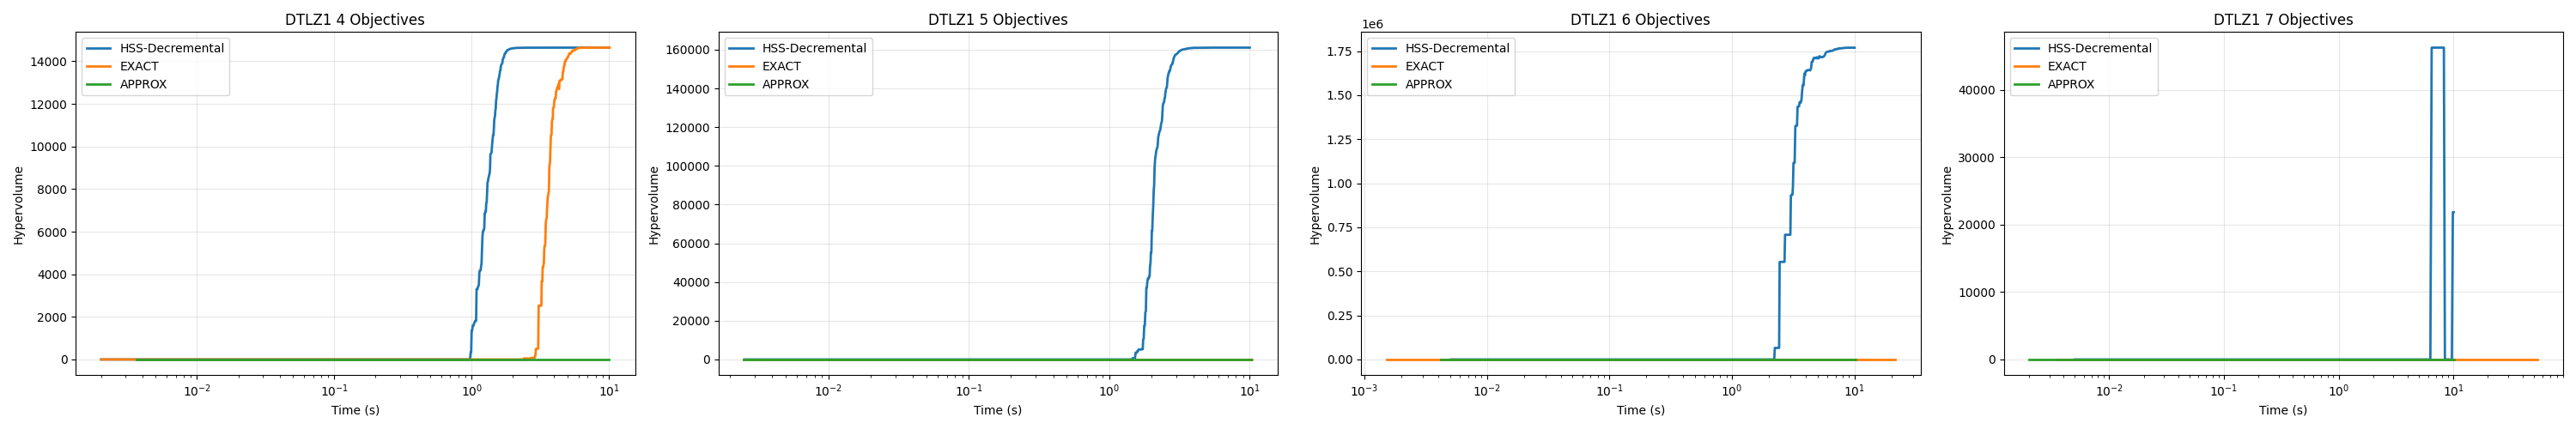
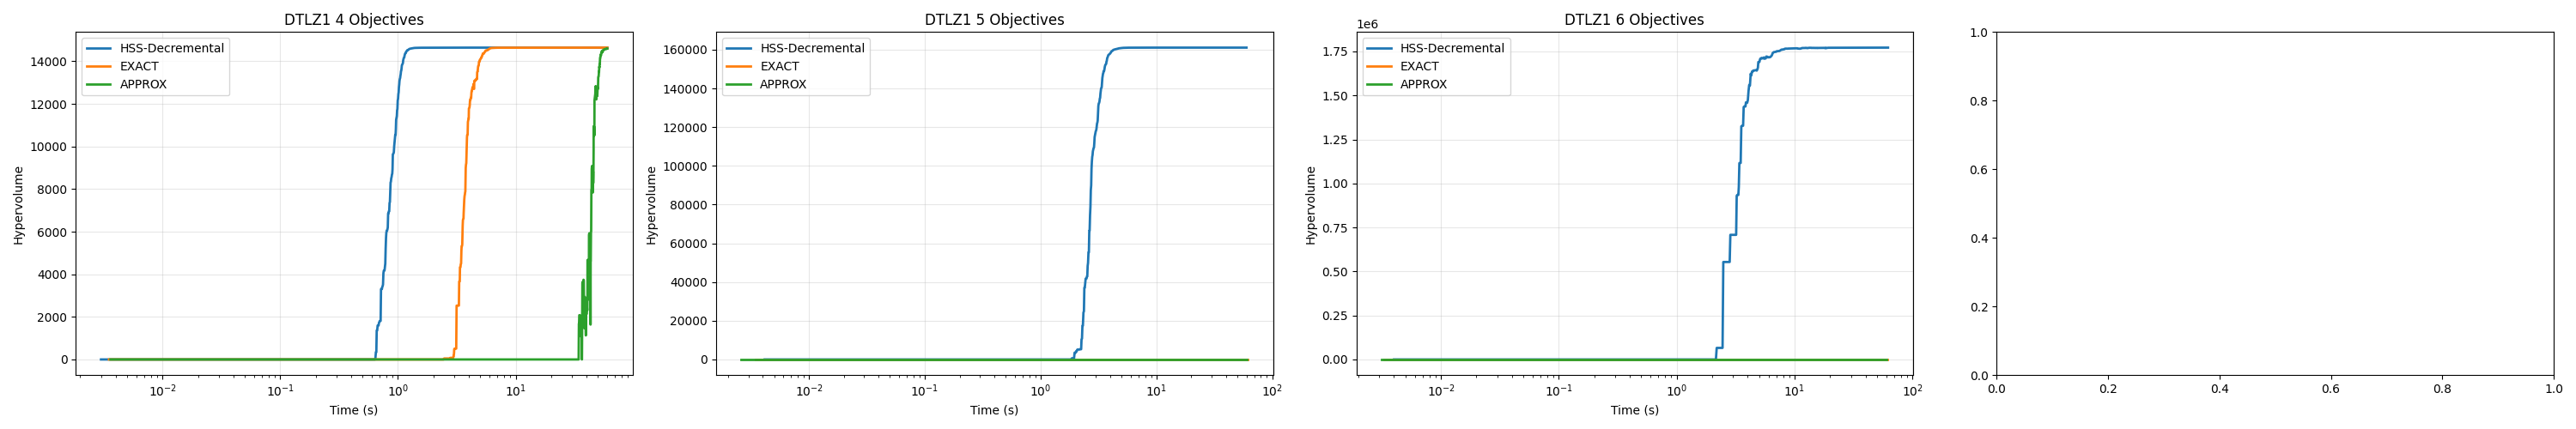
memory bugs

diff --git a/moda/python-wrap/pymoo_sms_tvshv.py b/moda/python-wrap/pymoo_sms_tvshv.py
@@ -6,23 +6,11 @@ from pymoo.problems import get_problem
 from pymoo.indicators.hv import HV
 from pymoo.core.callback import Callback
 from pymoo.termination import get_termination
-from pymoo.algorithms.moo.moda.sms_moda_hss_adaptive import SMSEMOA_HSS_ADA
-from pymoo.algorithms.moo.moda.sms_moda_hss_incremental import SMSEMOA_HSS_INC
+from tabulate import tabulate
 from pymoo.algorithms.moo.moda.sms_moda_hss_decremental import SMSEMOA_HSS_DEC
 from pymoo.algorithms.moo.sms_exact import SMSEMOA_EXACT
 from pymoo.algorithms.moo.sms_approx import SMSEMOA_APPROX
-from pymoo.core.termination import TerminateIfAny
-ptypes = ['dtlz2','dtlz5','dtlz7','wfg1','wfg2','wfg3']
-n_objs = [4,5,6,7]
-ref_point_value = 11
-# t1 = get_termination("n_gen", 300)
-t2 = get_termination("time", "00:01:00")
 
-#tylko adaptive
-#tylko kryterium czasowe (60s)
-#wywalić 3 kryteria
-#interfejs do metody adaptacyjnej w c++
-termination = TerminateIfAny(t2)
 class PerformanceCallback(Callback):
     def __init__(self, metric):
         super().__init__()
@@ -37,48 +25,89 @@ class PerformanceCallback(Callback):
         elapsed = time.time() - self.start_time
         self.data["runtime"].append(max(elapsed, 1e-6))
 
-for problem_type in ptypes:
+# Parameters
+N_RUNS = 3
+PTYPES = [ 'dtlz2', 'dtlz5', 'dtlz7', 'wfg1', 'wfg2', 'wfg3']
+N_OBJS = [4, 5, 6, 7]
+REF_POINT_VALUE = 11
+TIME_LIMIT = "00:01:00"
+CONVERGENCE_TIME = "00:02:00"
+CONVERGENCE_FACTOR = 0.98 
+
+results_table = []
+
+for problem_type in PTYPES:
+    # 1. Define algorithms. Ensure HSS-Decremental is available for the baseline.
     algos_to_test = [("HSS-Decremental", SMSEMOA_HSS_DEC), ("EXACT", SMSEMOA_EXACT), ("APPROX", SMSEMOA_APPROX)]
+    fig, axes = plt.subplots(1, len(N_OBJS), figsize=(20, 5))
 
-    fig, axes = plt.subplots(1, len(n_objs), figsize=(30, 5))
-
-    for i, n_obj in enumerate(n_objs):
+    for i, n_obj in enumerate(N_OBJS):
         problem = get_problem(problem_type, 14, n_obj=n_obj)
-        ref_point = np.array([ref_point_value] * n_obj)
+        ref_point = np.array([REF_POINT_VALUE] * n_obj)
         metric = HV(ref_point=ref_point)
+        
+        # --- BASELINE CALCULATION ---
+        # We run HSS-Decremental first to find the 100% HV baseline
+        print(f"\nEstablishing baseline with HSS-Decremental for {problem_type} ({n_obj} objs)...")
+        baseline_final_hvs = []
+        
+        
+        res_base = minimize(problem, SMSEMOA_HSS_DEC(), get_termination("time", CONVERGENCE_TIME), seed=42)
+        target_hv = metric.do(res_base.pop.get("F"))
+        print(f"Target HV set to: {target_hv:.4f} ({CONVERGENCE_FACTOR*100}% of baseline)")
 
+        # --- EVALUATION ---
         for name, algo_type in algos_to_test:
-            print(f"Running {name} ({problem_type},{n_obj} objs)...")
-            callback = PerformanceCallback(metric)
-            
-            res = minimize(problem, 
-                        algo_type(), 
-                        termination, 
-                        seed=420, 
-                        callback=callback,
-                        copy_algorithm=False)
-            
-            hvs = callback.data["hv"]
-            runtimes = callback.data["runtime"]
-            gens = np.arange(len(hvs))
+            all_hvs = []
+            all_times = []
+            conv_moments = []
 
-            # axes[i].plot(gens, hvs, label=name, lw=2)
-            axes[i].plot(runtimes, hvs, label=name, lw=2)
-            # axes[2][i].plot(gens, runtimes, label=name, lw=2)
+            print(f"Running {name}({n_obj} objectives)...")
 
-        # Formatting
-        # axes[0][i].set_title(f"HV vs Gen ({n_obj} Objs)")
-        axes[i].set_title(f"{problem_type.upper()} {n_obj} Objectives")
+            for run in range(N_RUNS):
+                print(f'Iteration {run+1}/{N_RUNS}', end = '\r')
+                callback = PerformanceCallback(metric)
+                minimize(problem, algo_type(), get_termination("time", TIME_LIMIT), 
+                         seed=run * 15, callback=callback, copy_algorithm=False)
+                
+                hvs = np.array(callback.data["hv"])
+                runtimes = np.array(callback.data["runtime"])
+                
+                # Find the moment the algorithm crossed the baseline target
+                reached_target = np.where(hvs >= target_hv)[0]
+                
+                if len(reached_target) > 0:
+                    conv_moments.append(runtimes[reached_target[0]])
+                else:
+                    # If it never reached the target within the time limit
+                    conv_moments.append(float(TIME_LIMIT.split(':')[-1])) 
+
+                all_hvs.append(hvs)
+                all_times.append(runtimes)
+            print('\n')
+            # Table Storage
+            results_table.append([
+                problem_type.upper(), 
+                n_obj, 
+                name, 
+                f"{np.mean(conv_moments):.3f}s", 
+                f"{np.std(conv_moments):.3f}s"
+            ])
+
+            # Standard Plotting Logic
+            common_time_grid = np.linspace(0.1, 60, 100)
+            interp_hvs = [np.interp(common_time_grid, t, h) for t, h in zip(all_times, all_hvs)]
+            axes[i].plot(common_time_grid, np.mean(interp_hvs, axis=0), label=name)
+            # Visual indicator of the target line
+            axes[i].axhline(y=target_hv, color='r', linestyle='--', alpha=0.3)
+
+        axes[i].set_title(f"{problem_type.upper()} - {n_obj} Objs")
         axes[i].set_xscale('log')
-        axes[i].set_xlabel("Time (s)")
-        axes[i].set_ylabel("Hypervolume")
-        # axes[2][i].set_title(f"Time vs Gen ({n_obj} Objs)")
-        # axes[2][i].set_yscale('log')
-        
-        for row in range(1):
-            axes[i].legend()
-            axes[i].grid(True, alpha=0.3)
+        axes[i].legend()
+    plt.tight_layout()
+    plt.savefig(f'averaged_benchmark_{problem_type}.png')
+    plt.close()
 
-        plt.tight_layout()
-        plt.savefig(f'ctermination_benchmark_{problem_type}_multihss_1.png')
-        
+# Print Results Table
+headers = ["Problem", "Objs", "Algorithm", "Mean Time to Target", "Std Dev"]
+print("\n" + tabulate(results_table, headers=headers, tablefmt="grid"))

diff --git a/moda/HSS.cpp b/moda/HSS.cpp
@@ -30,21 +30,21 @@ namespace moda
 			DType largeHV = Backend::Hypervolume(&nadirPoint, &newIdealPoint, numberOfObjectives);
 			// std::cout << "Calculation start";
 			// std::ofstream debugFile("C://debugging/debug.txt", std::ios_base::out | std::ios_base::trunc);
-			for(auto p : tmpPoints) {
-				for (short j = 0; j < numberOfObjectives; j++) {
-					if(p->ObjectiveValues[j] < nadirPoint.ObjectiveValues[j])
-						p->ObjectiveValues[j] = nadirPoint.ObjectiveValues[j];
+			// for(auto p : tmpPoints) {
+			// 	for (short j = 0; j < numberOfObjectives; j++) {
+			// 		if(p->ObjectiveValues[j] < nadirPoint.ObjectiveValues[j])
+			// 			p->ObjectiveValues[j] = nadirPoint.ObjectiveValues[j];
 					// debugFile << p->ObjectiveValues[j] << ' ';
-				}
+				// }
 				// debugFile << std::endl;
-			}
+			// }
 			// debugFile << "---------------" << std::endl;
-			for (short j = 0; j < numberOfObjectives; j++)
-			{
-				if(newIdealPoint.ObjectiveValues[j] <= nadirPoint.ObjectiveValues[j])
-					newIdealPoint.ObjectiveValues[j] = nadirPoint.ObjectiveValues[j] + 1;
+			// for (short j = 0; j < numberOfObjectives; j++)
+			// {
+			// 	if(newIdealPoint.ObjectiveValues[j] <= nadirPoint.ObjectiveValues[j])
+			// 		newIdealPoint.ObjectiveValues[j] = nadirPoint.ObjectiveValues[j] + 1;
 				// debugFile << newIdealPoint.ObjectiveValues[j] << " ";
-			}
+			// }
 			// debugFile << std::endl;
 			// debugFile << "---------------" << std::endl;
 			// for (short j = 0; j < numberOfObjectives; j++)
@@ -79,6 +79,13 @@ namespace moda
 			auto context = (IQHVExecutionContext*)pool->getContext(memoryKey);
 			for (int i = 0; i < numberOfPoints; i++) {
 				(*context->points)[i] = new Point(*points[i]);
+				for(int j = 0; j<numberOfObjectives; j++)
+				{
+					if((*context->points)[i]->ObjectiveValues[j] > idealPoint[j])
+						(*context->points)[i]->ObjectiveValues[j] = idealPoint[j];
+					if((*context->points)[i]->ObjectiveValues[j] < nadirPoint[j])
+						(*context->points)[i]->ObjectiveValues[j] = nadirPoint[j];
+				}
 			}
 
 
@@ -87,10 +94,12 @@ namespace moda
 			context->maxIndexUsed = maxIndexMem;
 			// std::cout << " starting IQHV ";
 			DType result = IQHV(0, numberOfPoints - 1, memoryKey, idealPoint, nadirPoint, 0, numberOfObjectives, 0,  numberOfPoints, false);
-			//std::cout << "Releasing memory for IQHV with key " << memoryKey << std::endl;
+			// std::cout << "Releasing memory for IQHV with key " << memoryKey << std::endl;
 			// std::cout << " releasing context ";
+			
+
 			pool->releaseContext(memoryKey);
-			//std::cout << "Memory released for IQHV with key " << memoryKey << std::endl;
+			// std::cout << "Memory released for IQHV with key " << memoryKey << std::endl;
 			// release memory
 			//indexSetVec.clear();
 			//indexSetVec.shrink_to_fit();

diff --git a/moda/ExecutionContext.h b/moda/ExecutionContext.h
@@ -4,7 +4,7 @@
 #include "ProcessData.h"
 #include "SubproblemsPool.h"
 #include "SubProblem.h"
-#define UNDERLYING_TYPE 4
+#define UNDERLYING_TYPE 2
 namespace moda {
     namespace backend {
         class ExecutionContext
@@ -36,15 +36,11 @@ namespace moda {
             std::vector<int> objectivesOrder;
             virtual ~ExecutionContext() {
                 
-                    // Check if we own the data before cleaning up the contents
                     if (points != nullptr && !shallow) {
-                        // We need a way to clean up the Point* objects managed by the array.
-                        // Assuming you add a function like `deleteContainedObjects` to SemiDynamicArray:
-                        //points->deleteContainedPoints(initialSize); // <-- Cleans up Point objects AND NULLED THEM
+                        points->deleteContainedPoints(initialSize); 
                     }
                     delete points;
-                    // Always delete the SemiDynamicArray object itself, as the Context owns the container pointer.
-                    //delete points;
+
                 
             }
 
@@ -54,9 +50,9 @@ namespace moda {
         {
         public:
             ~IQHVExecutionContext() {
-                //delete idealPoint;
-                //delete nadirPoint;
-                //delete points;
+                delete idealPoint;
+                delete nadirPoint;
+                //delete points; //points are deleted in base destructor
                 objectivesOrder.clear();
             }
             explicit IQHVExecutionContext(int reserveSize, int initialSize, int numberOfObjectives, bool shallow = false);

diff --git a/moda/IQHV.cpp b/moda/IQHV.cpp
@@ -9,7 +9,7 @@
 #include "ObjectivesTransformer.h"
 // 0 = switched off
 // 1 = switched on
-#define PARALLEL 1
+#define PARALLEL 0
 
 /*************************************************************************
 
@@ -35,7 +35,7 @@
       In Proceedings of the 
       Companion Conference on Genetic and Evolutionary Computation (GECCO '23 Companion). 
       Association for Computing Machinery, 
-      New York, NY, USA, 371�374. https://doi.org/10.1145/3583133.3590650
+      New York, NY, USA, 371–374. https://doi.org/10.1145/3583133.3590650
 
  
 
@@ -45,8 +45,6 @@ namespace moda {
         DType dummy(DType test, Point& NadirPoint ) { return test+1.0; };
         DType IQHV(int start, int end, int contextId, Point IdealPoint, Point NadirPoint, int recursion, int numberOfObjectives, int outerIteratorValue,  int fullSize, bool topLevelExecution)
         {
-            // std::cout << std::endl <<start << "|" << end;
-
             ExecutionService* service = &(ExecutionService::getInstance());
             ExecutionPool* pool = &(service->getPool());
     
@@ -77,7 +75,10 @@ namespace moda {
             for (int i = 0; i < numberOfObjectives; i++)
             {
                 if (IdealPoint[i] < NadirPoint[i])
-                    int k = 0;
+                {
+					//std::cout << "Ideal point should be better than nadir point in all objectives." << std::endl;
+                    //throw new _exception();
+                }
             }
 
 
@@ -199,8 +200,9 @@ namespace moda {
                         totalVolume += IQHV(partStart, partEnd, contextId, partIdealPoint, partNadirPoint, recursion + 1, numberOfObjectives, jj, fullSize, false);
                     }
                     else {
+						std::cout << "Spawning thread for objective " << j << " with " << (partEnd - partStart + 1) << " points.\n";
                         int points_to_reserve = 4 * (partEnd - partStart) * pow(2, numberOfObjectives / 2) + 1;
-                        int newSlot = service->getPool().reserveContext(points_to_reserve*10, 0, numberOfObjectives, ExecutionContext::ExecutionContextType::IQHVContext, true);
+                        int newSlot = service->getPool().reserveContext(points_to_reserve, 0, numberOfObjectives, ExecutionContext::ExecutionContextType::IQHVContext, true);
                         if (newSlot == -1)
                         {
                             totalVolume += IQHV(partStart, partEnd, contextId, partIdealPoint, partNadirPoint, recursion + 1, numberOfObjectives, jj, fullSize, false);

diff --git a/moda/python-wrap/moda_memtest.py b/moda/python-wrap/moda_memtest.py
@@ -1,0 +1,13 @@
+import moda
+from moda import HSSParameters, HSSSolver
+import numpy as np
+solver = HSSSolver()
+params = HSSParameters()
+params.Strategy =  moda.SubsetSelectionStrategy.Decremental
+params.Criteria =  moda.StoppingCriteriaType.SubsetSize
+params.StoppingSize = 100
+data = np.random.random(size = (130,4))
+ds = moda.DataSet(data) 
+ds.typeOfOptimization = moda.OptimizationType.minimization
+
+subset = solver.Solve(ds, params)[0]

diff --git a/moda/DynamicStructures.h b/moda/DynamicStructures.h
@@ -57,16 +57,10 @@ namespace moda {
              * @note This should ONLY be called by the owning context.
              */
             void deleteContainedPoints(int initialSize) {
-
-                // Iterate up to the deep memory total size, or maxCall if it is smaller.
-                int max = maxCall + 1 < initialSize ? maxCall + 1 : initialSize;
-                for (int i = 0; i < max; i++) 
+                for (int i = 0; i < initialSize; i++) 
                 {
                     delete data[i];
                 }
-                //Reset maxCall/size
-                maxCall = 0; 
-                size = 0;
             }
             SemiDynamicArray(const SemiDynamicArray&) = delete;
             SemiDynamicArray& operator=(const SemiDynamicArray&) = delete;
@@ -107,6 +101,9 @@ namespace moda {
                 if (newSize > capacity) {
                     // Case 1: Grow AND Reallocate
                     reserve(newSize);
+                }
+                else {
+                    capacity = newSize;
                 }
 
                 // Case 2: Shrink (newSize < size)

diff --git a/moda/python-wrap/.venv-windows/Lib/site-packages/pymoo/algorithms/moo/moda/sms_moda_hss_decremental.py b/moda/python-wrap/.venv-windows/Lib/site-packages/pymoo/algorithms/moo/moda/sms_moda_hss_decremental.py
@@ -78,9 +78,11 @@ class LeastHypervolumeContributionSurvival(Survival):
                 
                 ds = moda.DataSet(data) 
                 ds.typeOfOptimization = moda.OptimizationType.minimization
+                
+                # print(F)
                 subset = solver.Solve(ds, params)[0]
-                front = front[subset]
                 # print("Iteration: %d, Front size: %d, Selected subset size: %d" % (self.iter, len(F), len(subset)))
+                front = front[subset]
                 self.iter += 1
             # extend the survivors by all or selected individuals
             survivors.extend(front)